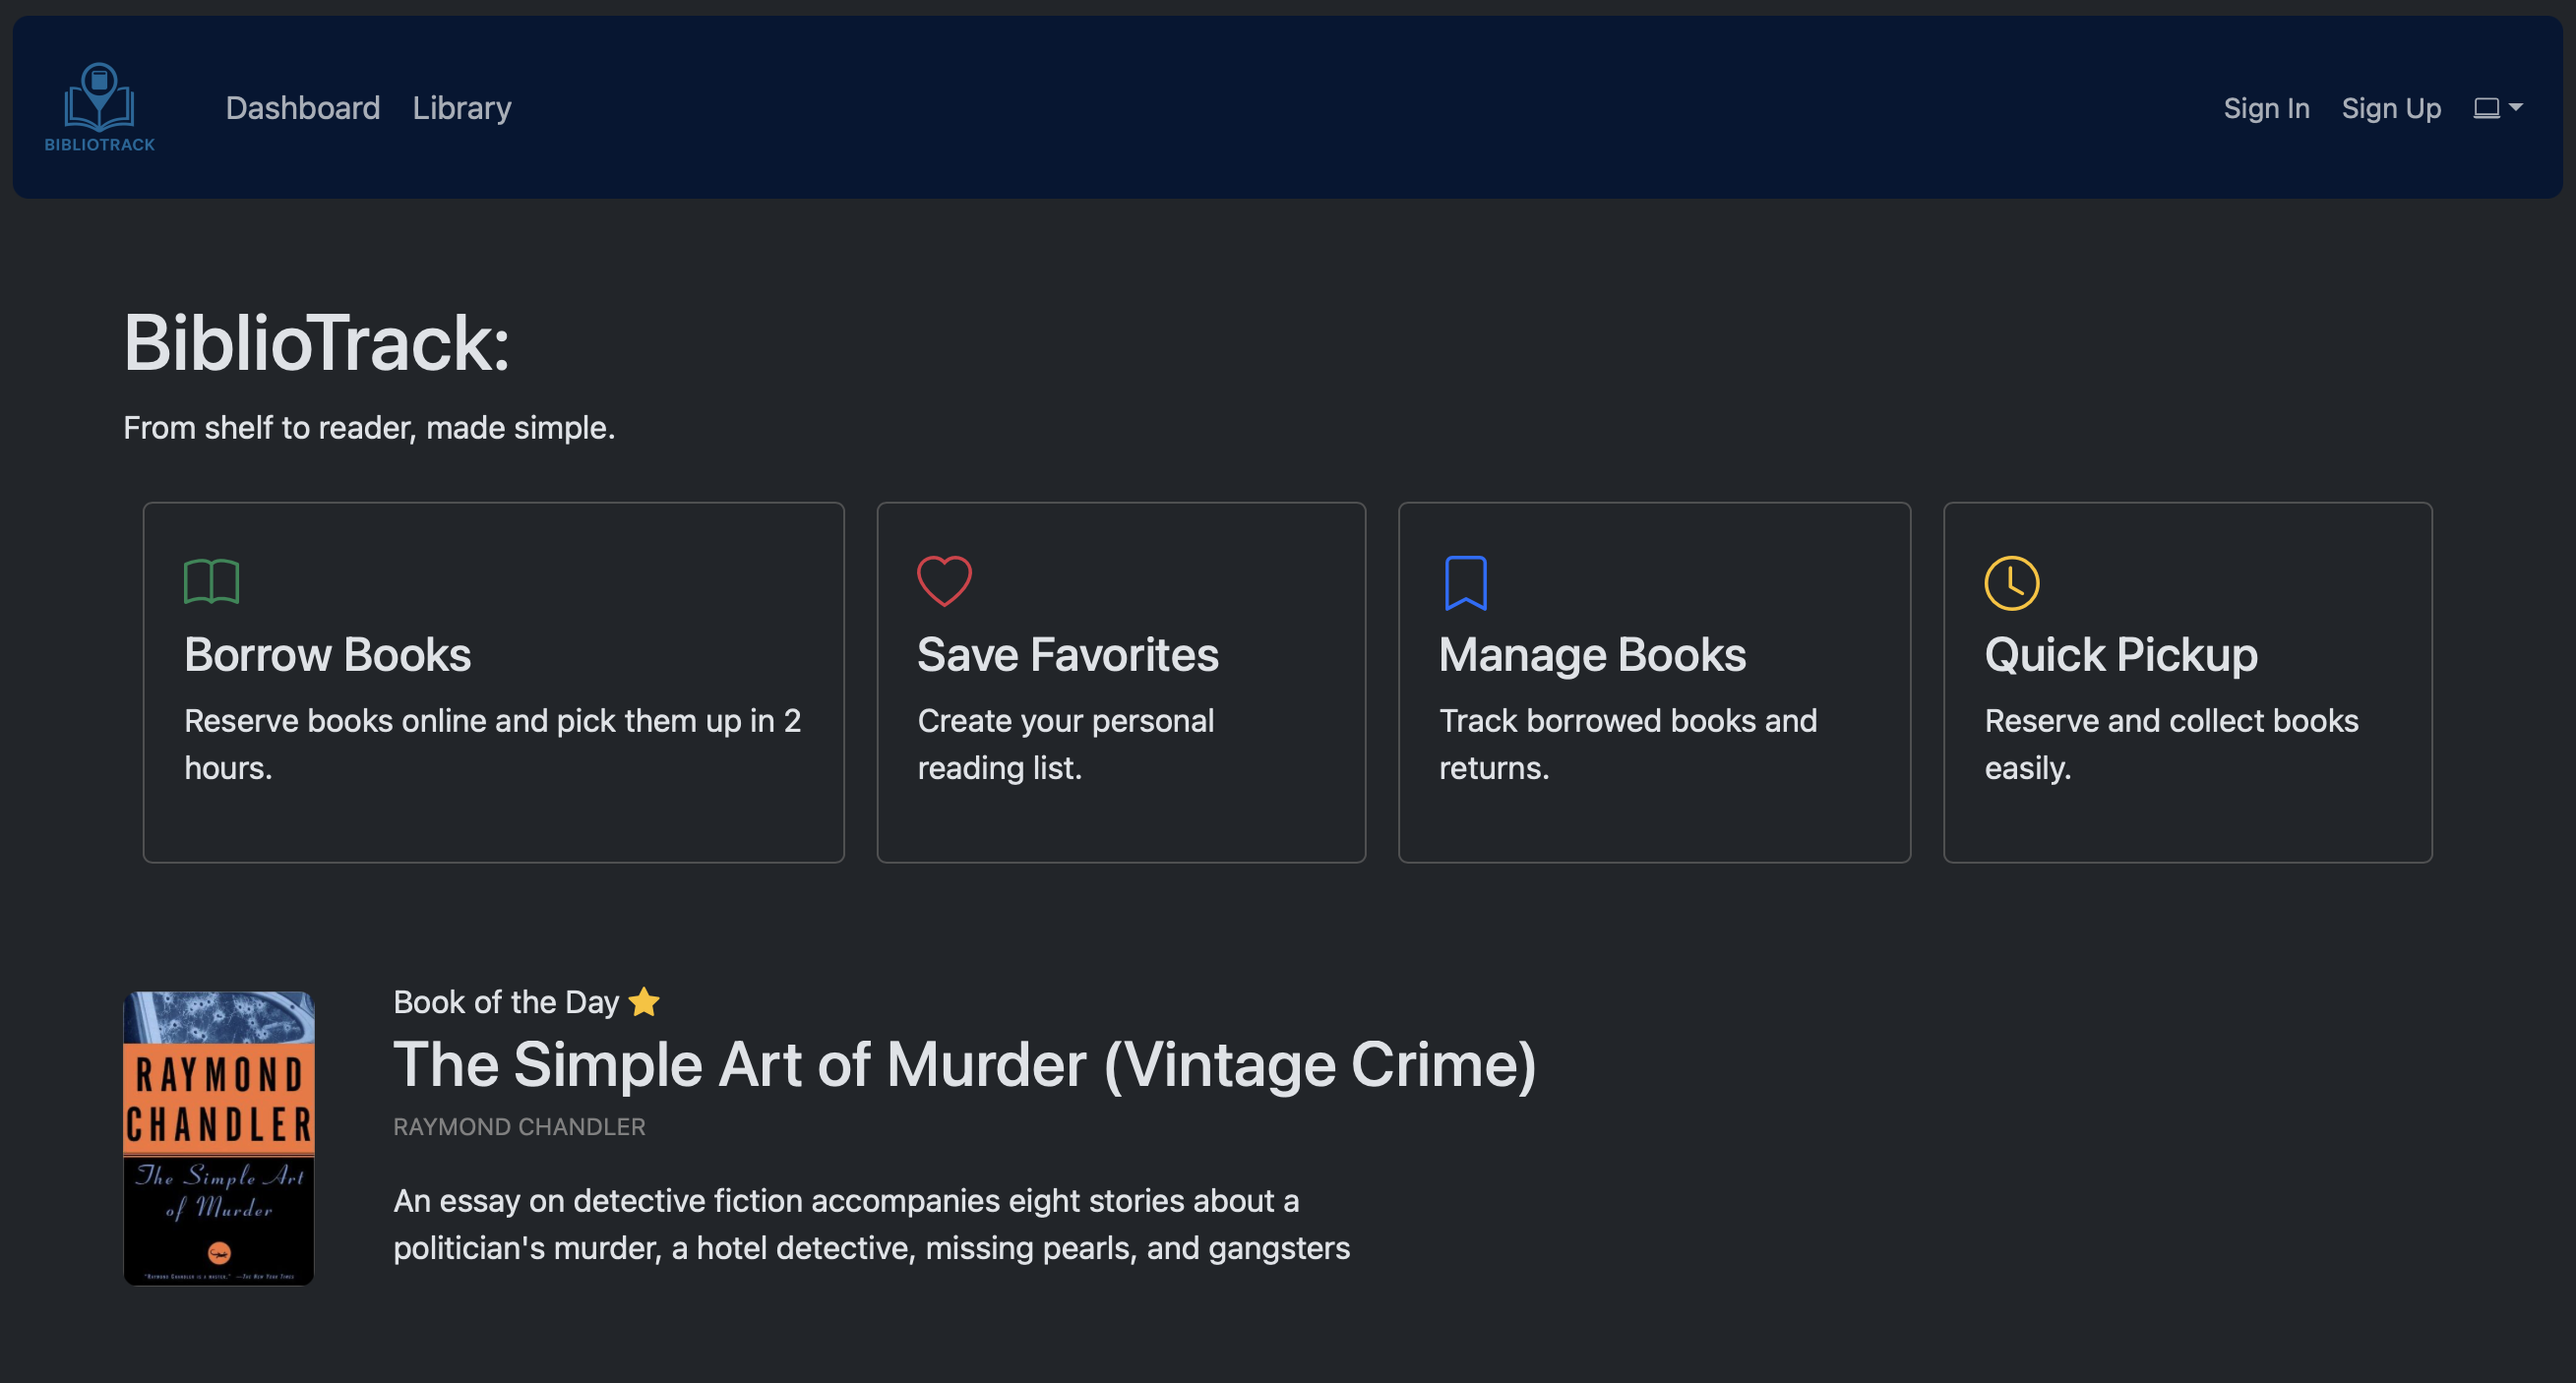
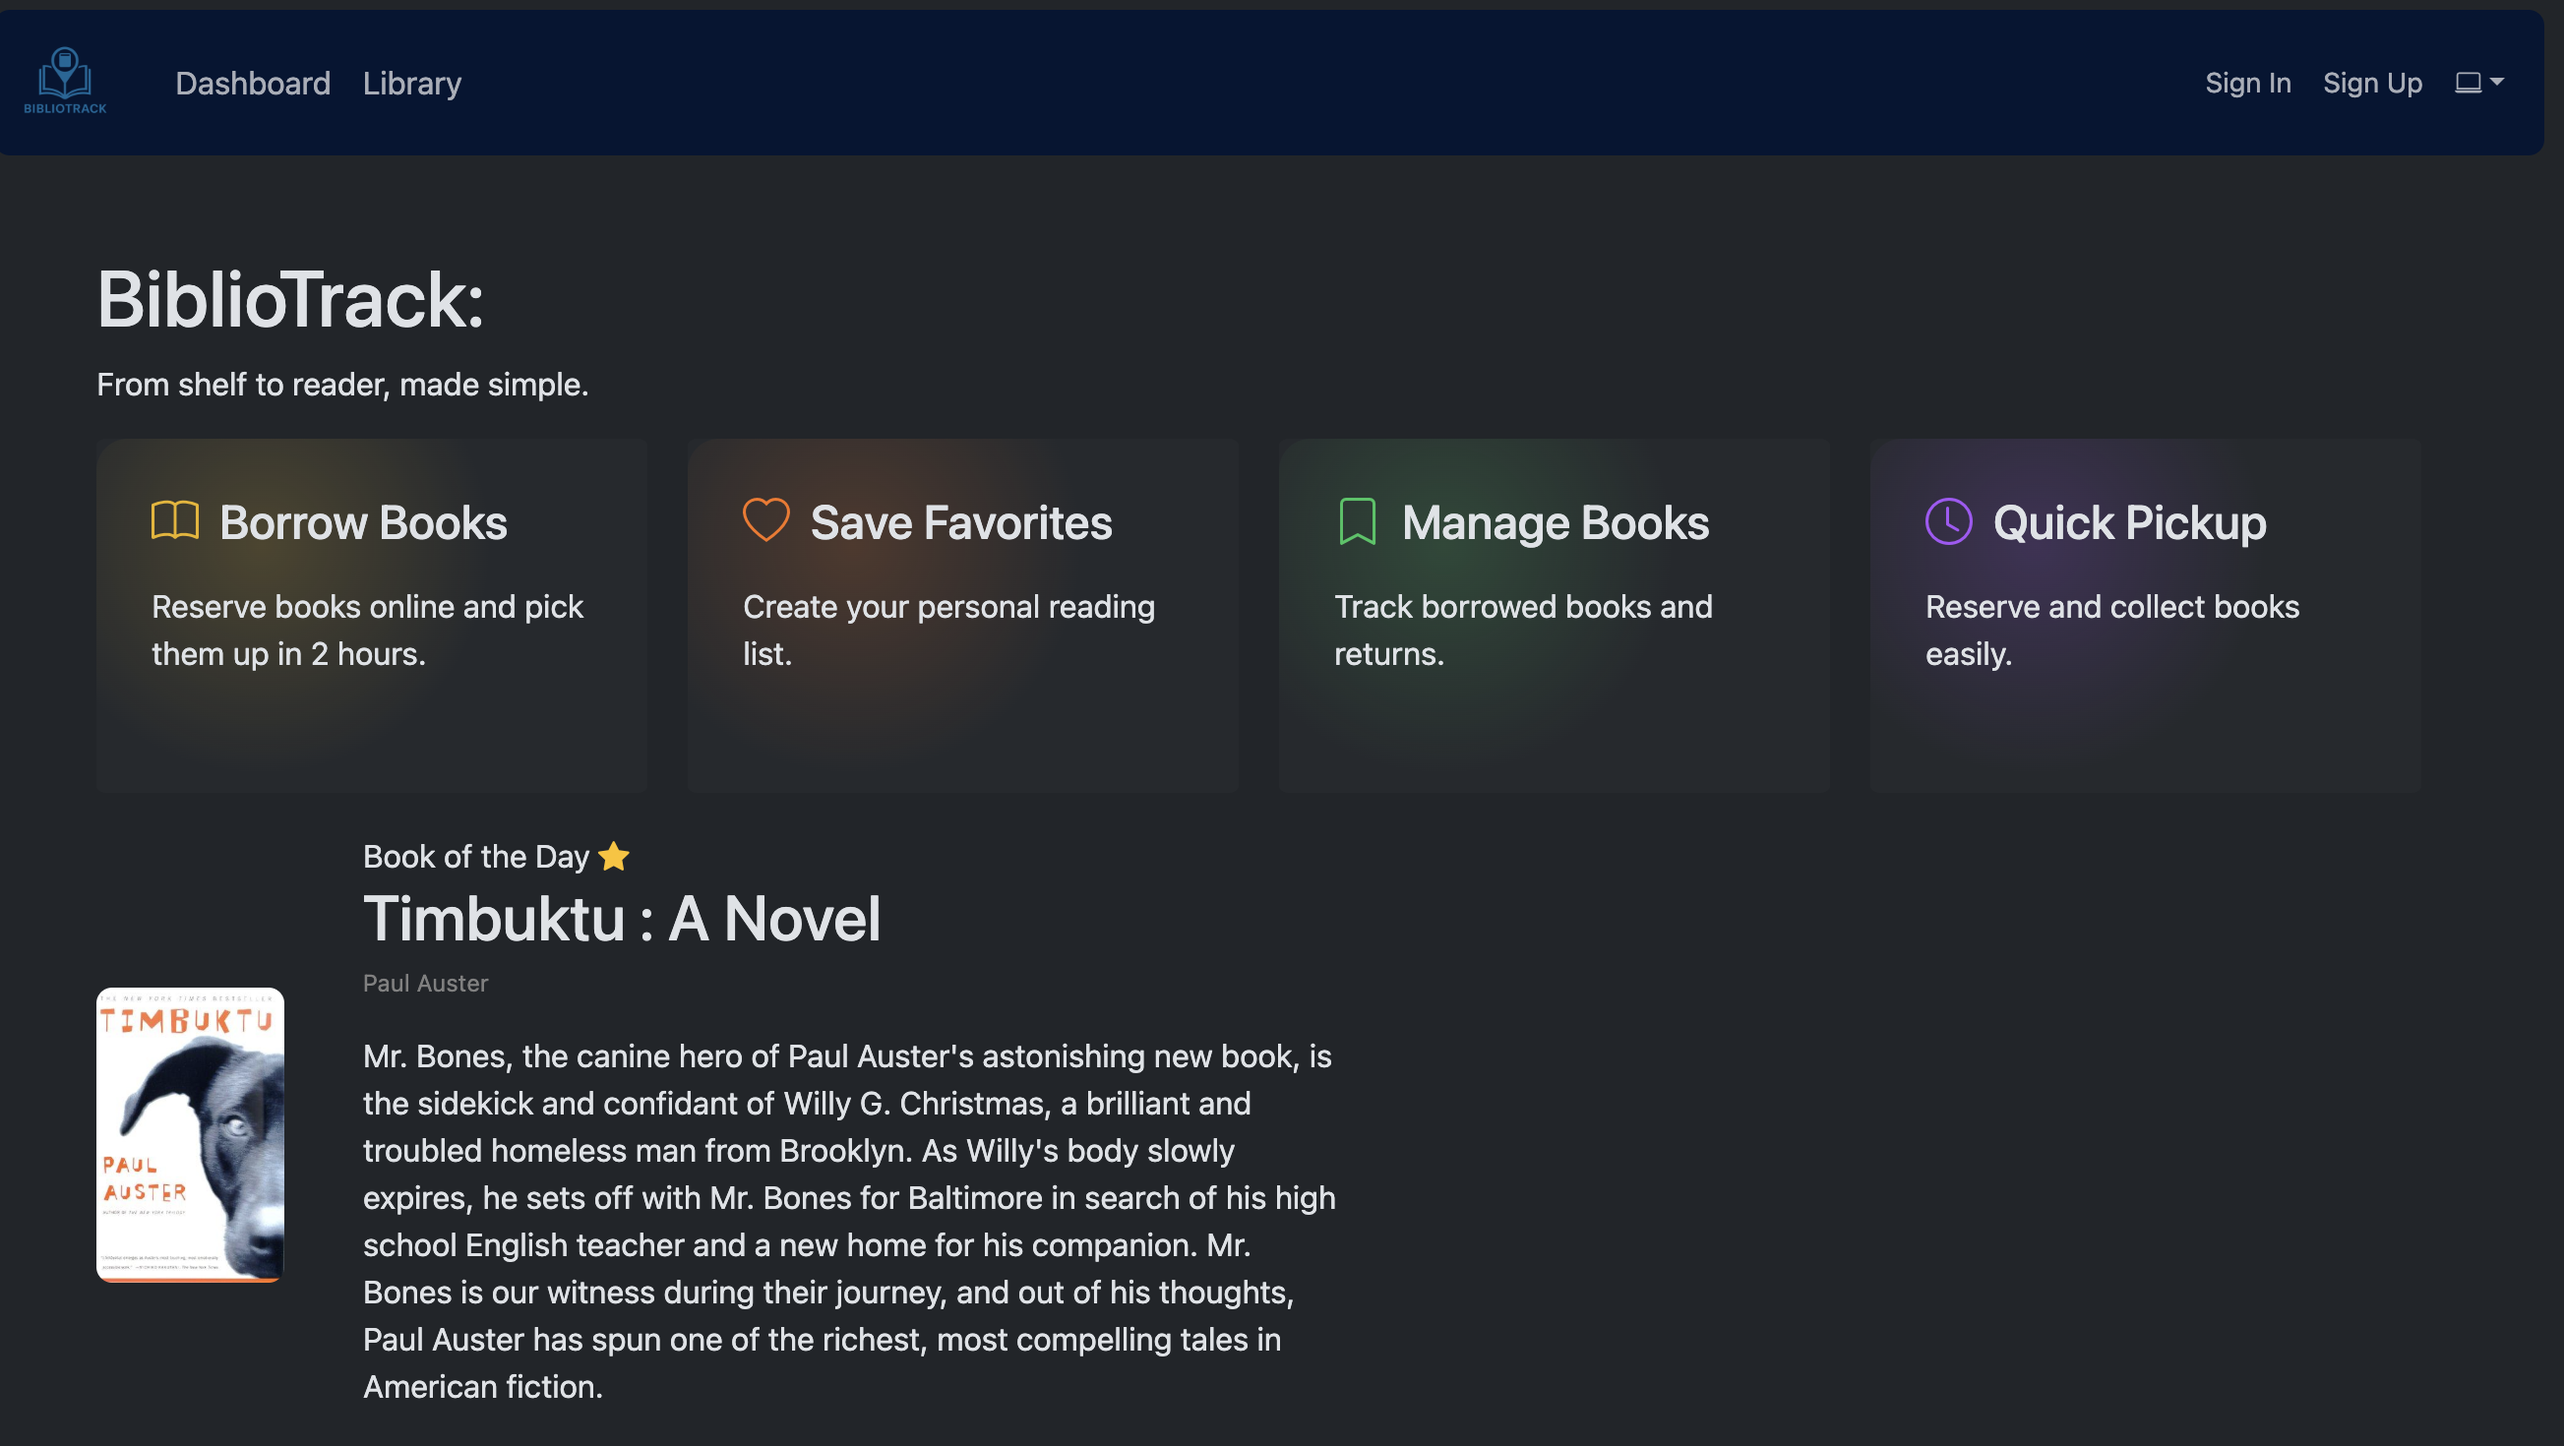
Add hover image transitions to projects

diff --git a/src/App.jsx b/src/App.jsx
@@ -15,8 +15,11 @@ import { SiVuedotjs, SiDotnet, SiPython } from "react-icons/si";
 import { FaDatabase } from "react-icons/fa";
 import { FiLink } from "react-icons/fi";
 import biblioTrack from "./assets/biblioTrack.png";
+import biblioTrack1 from "./assets/biblioTrack1.png";
 import hootsChallenge from "./assets/hootsChallenge.png";
+import hootsChallenge1 from "./assets/hootsChallenge1.png";
 import treasureHunt from "./assets/treasureHunt.png";
+import treasureHunt1 from "./assets/treasureHunt1.png";
 const PROJECTS = [
   {
     id: 1,
@@ -24,7 +27,8 @@ const PROJECTS = [
     description:
       "Full-stack library management system that allows users to browse, reserve, and manage books online with role-based access for admins and visitors. Includes authentication, search, and reservation workflow.",
     tech: [".NET", "Vue.js", "SQL Server", "Pinia"],
-    image: biblioTrack,
+    mainImage: biblioTrack,
+    secondaryImage: biblioTrack1,
     link: "https://biblio-track-project.vercel.app",
     credentials: (
       <>
@@ -43,7 +47,8 @@ const PROJECTS = [
     description:
       "Educational web application that helps children practice math and nature science through interactive quizzes. Includes user authentication, progress tracking, difficulty levels, and API-generated questions.",
     tech: ["Flask", "PostgreSQL", "Python", "SQLAlchemy", "REST API"],
-    image: hootsChallenge,
+    mainImage: hootsChallenge,
+    secondaryImage: hootsChallenge1,
     link: "https://hootschallenge.onrender.com",
     credentials: "",
   },
@@ -53,7 +58,8 @@ const PROJECTS = [
     description:
       "Augmented reality hiking game that transforms nature trails into an interactive treasure hunt. Users solve riddles and follow AR clues to track a fictional environmental monster in real-world locations.",
     tech: ["JavaScript", "A-Frame", "Web AR", "HTML/CSS"],
-    image: treasureHunt,
+    mainImage: treasureHunt,
+    secondaryImage: treasureHunt1,
     link: "https://luza83.github.io/AR-TreasureHunt/",
     credentials: "",
   },
@@ -348,11 +354,17 @@ function Projects() {
             >
               <div className="w-full md:w-1/2 group">
                 <div className="relative overflow-hidden rounded-2xl glass-panel aspect-video">
-                  <div className="absolute inset-0 bg-primary/20 opacity-0 group-hover:opacity-100 transition-opacity duration-500 z-10 mix-blend-overlay" />
+                  <div className="absolute inset-0 bg-primary/20 opacity-0 group-hover:opacity-100 transition-opacity duration-500 z-20 mix-blend-overlay" />
                   <img
-                    src={project.image}
+                    src={project.mainImage}
                     alt={project.title}
-                    className="w-full h-full object-cover transform group-hover:scale-105 transition-transform duration-700"
+                    className="absolute inset-0 w-full h-full object-cover transition-opacity duration-500 opacity-100 group-hover:opacity-0"
+                  />
+
+                  <img
+                    src={project.secondaryImage}
+                    alt={`${project.title} preview`}
+                    className="absolute inset-0 w-full h-full object-fit transition-opacity duration-500 opacity-0 group-hover:opacity-100"
                   />
                 </div>
               </div>
